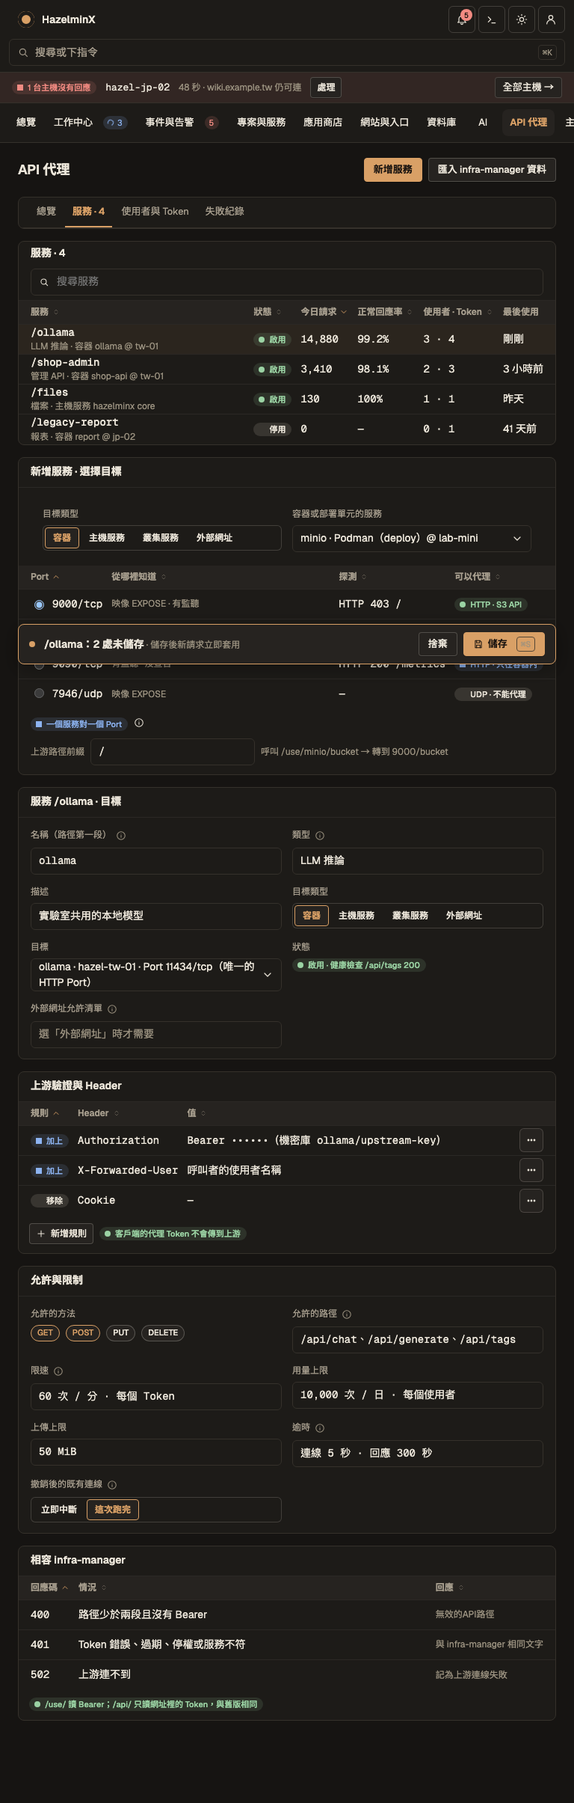
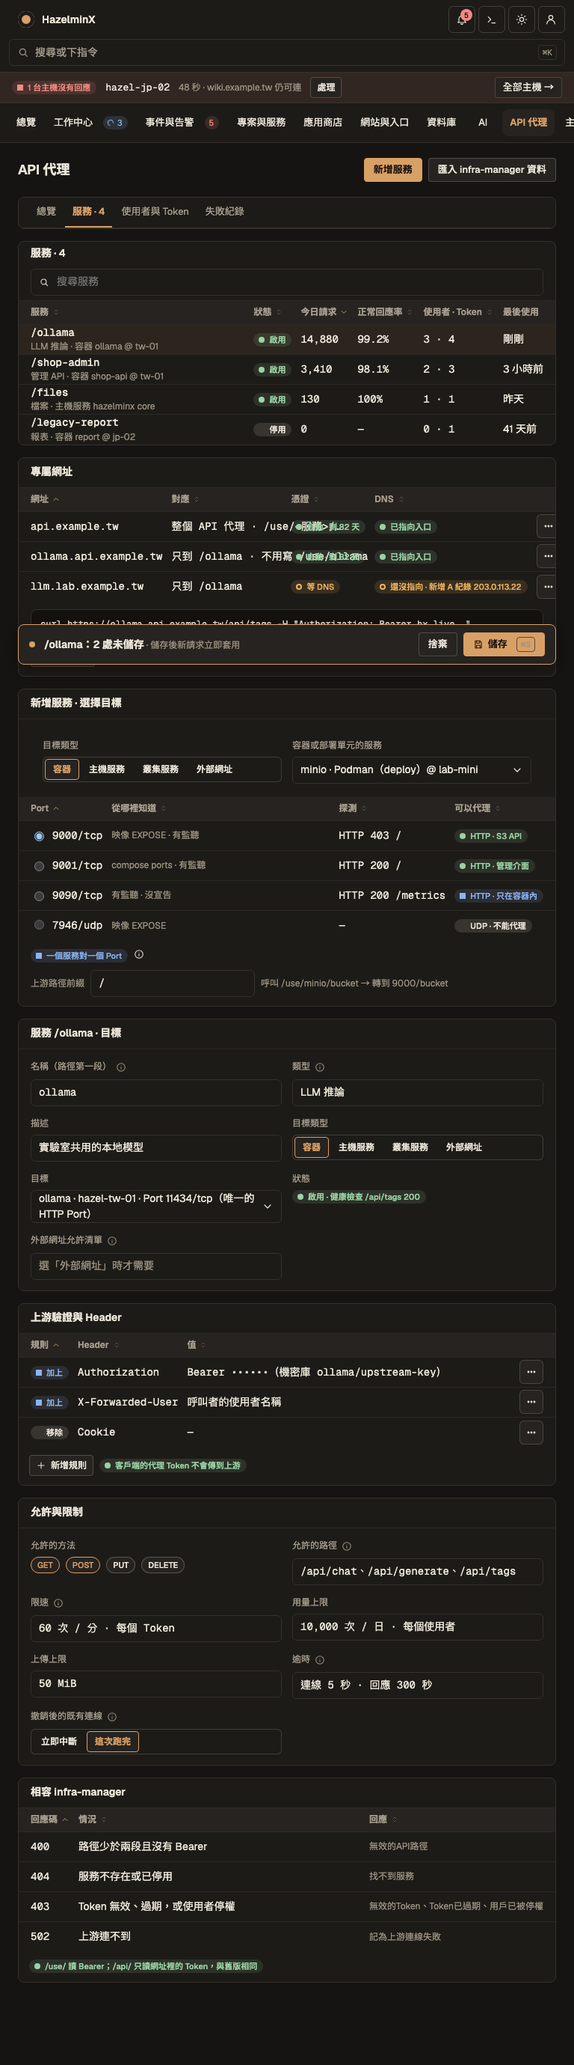
design: API proxy dedicated domains; status codes match infra-manager (400/403/404)

diff --git a/docs/design/screens/APIProxyService.dc.html b/docs/design/screens/APIProxyService.dc.html
@@ -488,7 +488,15 @@ body{margin:0}
       <a class="row  cols-6" href="#svc"><span class="name"><span class="n mono">/shop-admin</span><span class="d">管理 API · 容器 shop-api @ tw-01</span></span><span><span class="st ok"><i aria-hidden="true"></i>啟用</span></span><span class="c3 mono">3,410</span><span class="c3 mono">98.1%</span><span class="c4 mono">2 · 3</span><span class="c4">3 小時前</span></a>
       <a class="row  cols-6" href="#svc"><span class="name"><span class="n mono">/files</span><span class="d">檔案 · 主機服務 hazelminx core</span></span><span><span class="st ok"><i aria-hidden="true"></i>啟用</span></span><span class="c3 mono">130</span><span class="c3 mono">100%</span><span class="c4 mono">1 · 1</span><span class="c4">昨天</span></a>
       <a class="row  cols-6" href="#svc"><span class="name"><span class="n mono">/legacy-report</span><span class="d">報表 · 容器 report @ jp-02</span></span><span><span class="st none"><i aria-hidden="true"></i>停用</span></span><span class="c3 mono">0</span><span class="c3 mono">—</span><span class="c4 mono">0 · 1</span><span class="c4">41 天前</span></a></div>
-    </section><section class="panel"><div class="ph"><h2>新增服務 · 選擇目標</h2></div>
+    </section><section class="panel"><div class="ph"><h2>專屬網址</h2></div>
+      <div class="tw" style="--tc:auto minmax(min(160px,34%),1fr) auto auto auto"><div class="row hd r0"><span class=""><span class="sortable on">網址 <svg viewBox="0 0 24 24" width="12" height="12" fill="none" stroke="currentColor" stroke-width="1.8" stroke-linecap="round" stroke-linejoin="round" aria-hidden="true"><path d="m6 15 6-6 6 6"/></svg></span></span><span class=""><span class="sortable">對應 <svg viewBox="0 0 24 24" width="12" height="12" fill="none" stroke="currentColor" stroke-width="1.8" stroke-linecap="round" stroke-linejoin="round" aria-hidden="true"><path d="m8 10 4-4 4 4"/><path d="m8 14 4 4 4-4"/></svg></span></span><span class=""><span class="sortable">憑證 <svg viewBox="0 0 24 24" width="12" height="12" fill="none" stroke="currentColor" stroke-width="1.8" stroke-linecap="round" stroke-linejoin="round" aria-hidden="true"><path d="m8 10 4-4 4 4"/><path d="m8 14 4 4 4-4"/></svg></span></span><span class=""><span class="sortable">DNS <svg viewBox="0 0 24 24" width="12" height="12" fill="none" stroke="currentColor" stroke-width="1.8" stroke-linecap="round" stroke-linejoin="round" aria-hidden="true"><path d="m8 10 4-4 4 4"/><path d="m8 14 4 4 4-4"/></svg></span></span><span class=""></span></div>
+      <div class="row r0"><span class="mono">api.example.tw</span><span class="mono">整個 API 代理 · /use/&lt;服務&gt;/…</span><span><span class="st ok"><i aria-hidden="true"></i>自動 · 剩 82 天</span></span><span><span class="st ok"><i aria-hidden="true"></i>已指向入口</span></span><span><span class="acts"><button type="button" class="ib" aria-label="更多" title="更多"><svg viewBox="0 0 24 24" width="16" height="16" fill="none" stroke="currentColor" stroke-width="1.8" stroke-linecap="round" stroke-linejoin="round" aria-hidden="true"><circle cx="6" cy="12" r="1.2"/><circle cx="12" cy="12" r="1.2"/><circle cx="18" cy="12" r="1.2"/></svg></button></span></span></div>
+      <div class="row r0"><span class="mono">ollama.api.example.tw</span><span class="mono">只到 /ollama · 不用寫 /use/ollama</span><span><span class="st ok"><i aria-hidden="true"></i>自動 · 剩 82 天</span></span><span><span class="st ok"><i aria-hidden="true"></i>已指向入口</span></span><span><span class="acts"><button type="button" class="ib" aria-label="更多" title="更多"><svg viewBox="0 0 24 24" width="16" height="16" fill="none" stroke="currentColor" stroke-width="1.8" stroke-linecap="round" stroke-linejoin="round" aria-hidden="true"><circle cx="6" cy="12" r="1.2"/><circle cx="12" cy="12" r="1.2"/><circle cx="18" cy="12" r="1.2"/></svg></button></span></span></div>
+      <div class="row r0"><span class="mono">llm.lab.example.tw</span><span class="mono">只到 /ollama</span><span><span class="st warn"><i aria-hidden="true"></i>等 DNS</span></span><span><span class="st warn"><i aria-hidden="true"></i>還沒指向 · 新增 A 紀錄 203.0.113.22</span></span><span><span class="acts"><button type="button" class="ib" aria-label="更多" title="更多"><svg viewBox="0 0 24 24" width="16" height="16" fill="none" stroke="currentColor" stroke-width="1.8" stroke-linecap="round" stroke-linejoin="round" aria-hidden="true"><circle cx="6" cy="12" r="1.2"/><circle cx="12" cy="12" r="1.2"/><circle cx="18" cy="12" r="1.2"/></svg></button></span></span></div></div>
+      <div style="padding:10px 16px 12px;display:flex;flex-direction:column;gap:8px">
+        <div class="term">curl https://ollama.api.example.tw/api/tags -H "Authorization: Bearer hx_live_…"</div>
+        <div class="wrap"><button type="button" class="btn sm"><svg viewBox="0 0 24 24" width="14" height="14" fill="none" stroke="currentColor" stroke-width="1.8" stroke-linecap="round" stroke-linejoin="round" aria-hidden="true"><path d="M12 5v14M5 12h14"/></svg>新增網址</button><span class="st info"><i aria-hidden="true"></i>服務專屬網址只收 Bearer</span><span tabindex="0" data-tip="網址裡沒有 /use/服務 這一段，所以不支援把 Token 放在路徑；/use/ 與 /api/ 的舊路徑照常可用"><svg viewBox="0 0 24 24" width="14" height="14" fill="none" stroke="currentColor" stroke-width="1.8" stroke-linecap="round" stroke-linejoin="round" aria-hidden="true"><circle cx="12" cy="12" r="9"/><path d="M12 11v5M12 8h.01"/></svg></span></div>
+      </div></section><section class="panel"><div class="ph"><h2>新增服務 · 選擇目標</h2></div>
       <div style="padding:12px 16px 4px"><div style="padding:14px 16px;display:grid;grid-template-columns:repeat(auto-fit,minmax(min(280px,100%),1fr));gap:14px"><div class="field"><label>目標類型</label><div class="range" role="group" aria-label="目標類型" style="flex-wrap:wrap"><button type="button" class="btn on" aria-pressed="true">容器</button><button type="button" class="btn" aria-pressed="false">主機服務</button><button type="button" class="btn" aria-pressed="false">叢集服務</button><button type="button" class="btn" aria-pressed="false">外部網址</button></div></div><div class="field"><label>容器或部署單元的服務</label><div class="inp"><span style="flex:1;min-width:0;overflow-wrap:anywhere">minio · Podman（deploy）@ lab-mini</span><svg viewBox="0 0 24 24" width="16" height="16" fill="none" stroke="currentColor" stroke-width="1.8" stroke-linecap="round" stroke-linejoin="round" aria-hidden="true"><path d="m6 9 6 6 6-6"/></svg></div></div></div></div>
       <div class="tw" style="--tc:auto minmax(min(160px,34%),1fr) auto auto"><div class="row hd r0"><span class=""><span class="sortable on">Port <svg viewBox="0 0 24 24" width="12" height="12" fill="none" stroke="currentColor" stroke-width="1.8" stroke-linecap="round" stroke-linejoin="round" aria-hidden="true"><path d="m6 15 6-6 6 6"/></svg></span></span><span class=""><span class="sortable">從哪裡知道 <svg viewBox="0 0 24 24" width="12" height="12" fill="none" stroke="currentColor" stroke-width="1.8" stroke-linecap="round" stroke-linejoin="round" aria-hidden="true"><path d="m8 10 4-4 4 4"/><path d="m8 14 4 4 4-4"/></svg></span></span><span class=""><span class="sortable">探測 <svg viewBox="0 0 24 24" width="12" height="12" fill="none" stroke="currentColor" stroke-width="1.8" stroke-linecap="round" stroke-linejoin="round" aria-hidden="true"><path d="m8 10 4-4 4 4"/><path d="m8 14 4 4 4-4"/></svg></span></span><span class=""><span class="sortable">可以代理 <svg viewBox="0 0 24 24" width="12" height="12" fill="none" stroke="currentColor" stroke-width="1.8" stroke-linecap="round" stroke-linejoin="round" aria-hidden="true"><path d="m8 10 4-4 4 4"/><path d="m8 14 4 4 4-4"/></svg></span></span></div>
       <div class="row r0"><span class="wrap" style="flex-wrap:nowrap"><input type="radio" name="pp" checked aria-label="9000/tcp"><span class="mono">9000/tcp</span></span><span class="note">映像 EXPOSE · 有監聽</span><span class="mono">HTTP 403 /</span><span><span class="st ok"><i aria-hidden="true"></i>HTTP · S3 API</span></span></div>
@@ -506,7 +514,8 @@ body{margin:0}
       <div class="wrap" style="padding:10px 14px 12px"><button type="button" class="btn sm"><svg viewBox="0 0 24 24" width="14" height="14" fill="none" stroke="currentColor" stroke-width="1.8" stroke-linecap="round" stroke-linejoin="round" aria-hidden="true"><path d="M12 5v14M5 12h14"/></svg>新增規則</button><span class="st ok"><i aria-hidden="true"></i>客戶端的代理 Token 不會傳到上游</span></div></section></div><div class="cg"><section class="panel"><div class="ph"><h2>允許與限制</h2></div><div style="padding:14px 16px;display:grid;grid-template-columns:repeat(auto-fit,minmax(min(240px,100%),1fr));gap:14px"><div class="field"><label>允許的方法</label><div class="wrap"><span class="chip on">GET</span><span class="chip on">POST</span><span class="chip">PUT</span><span class="chip">DELETE</span></div></div><div class="field"><label>允許的路徑 <span class="hint" tabindex="0" role="img" aria-label="其他路徑回 403，記在失敗紀錄" data-tip="其他路徑回 403，記在失敗紀錄"><svg viewBox="0 0 24 24" width="14" height="14" fill="none" stroke="currentColor" stroke-width="1.8" stroke-linecap="round" stroke-linejoin="round" aria-hidden="true"><circle cx="12" cy="12" r="9"/><path d="M12 11v5M12 8h.01"/></svg></span></label><div class="inp"><span class="mono" style="flex:1;min-width:0;overflow-wrap:anywhere">/api/chat、/api/generate、/api/tags</span></div></div><div class="field"><label>限速 <span class="hint" tabindex="0" role="img" aria-label="多台主機時是全域計算" data-tip="多台主機時是全域計算"><svg viewBox="0 0 24 24" width="14" height="14" fill="none" stroke="currentColor" stroke-width="1.8" stroke-linecap="round" stroke-linejoin="round" aria-hidden="true"><circle cx="12" cy="12" r="9"/><path d="M12 11v5M12 8h.01"/></svg></span></label><div class="inp"><span class="mono" style="flex:1;min-width:0;overflow-wrap:anywhere">60 次 / 分 · 每個 Token</span></div></div><div class="field"><label>用量上限</label><div class="inp"><span class="mono" style="flex:1;min-width:0;overflow-wrap:anywhere">10,000 次 / 日 · 每個使用者</span></div></div><div class="field"><label>上傳上限</label><div class="inp"><span class="mono" style="flex:1;min-width:0;overflow-wrap:anywhere">50 MiB</span></div></div><div class="field"><label>逾時 <span class="hint" tabindex="0" role="img" aria-label="串流回應不受回應逾時限制" data-tip="串流回應不受回應逾時限制"><svg viewBox="0 0 24 24" width="14" height="14" fill="none" stroke="currentColor" stroke-width="1.8" stroke-linecap="round" stroke-linejoin="round" aria-hidden="true"><circle cx="12" cy="12" r="9"/><path d="M12 11v5M12 8h.01"/></svg></span></label><div class="inp"><span class="mono" style="flex:1;min-width:0;overflow-wrap:anywhere">連線 5 秒 · 回應 300 秒</span></div></div><div class="field"><label>撤銷後的既有連線 <span class="hint" tabindex="0" role="img" aria-label="新請求一律立即拒絕" data-tip="新請求一律立即拒絕"><svg viewBox="0 0 24 24" width="14" height="14" fill="none" stroke="currentColor" stroke-width="1.8" stroke-linecap="round" stroke-linejoin="round" aria-hidden="true"><circle cx="12" cy="12" r="9"/><path d="M12 11v5M12 8h.01"/></svg></span></label><div class="range" role="group" aria-label="撤銷後" style="flex-wrap:wrap"><button type="button" class="btn" aria-pressed="false">立即中斷</button><button type="button" class="btn on" aria-pressed="true">這次跑完</button></div></div></div></section><section class="panel"><div class="ph"><h2>相容 infra-manager</h2></div>
       <div class="tw" style="--tc:auto minmax(min(160px,34%),1fr) auto"><div class="row hd r0"><span class=""><span class="sortable on">回應碼 <svg viewBox="0 0 24 24" width="12" height="12" fill="none" stroke="currentColor" stroke-width="1.8" stroke-linecap="round" stroke-linejoin="round" aria-hidden="true"><path d="m6 15 6-6 6 6"/></svg></span></span><span class=""><span class="sortable">情況 <svg viewBox="0 0 24 24" width="12" height="12" fill="none" stroke="currentColor" stroke-width="1.8" stroke-linecap="round" stroke-linejoin="round" aria-hidden="true"><path d="m8 10 4-4 4 4"/><path d="m8 14 4 4 4-4"/></svg></span></span><span class=""><span class="sortable">回應 <svg viewBox="0 0 24 24" width="12" height="12" fill="none" stroke="currentColor" stroke-width="1.8" stroke-linecap="round" stroke-linejoin="round" aria-hidden="true"><path d="m8 10 4-4 4 4"/><path d="m8 14 4 4 4-4"/></svg></span></span></div>
       <div class="row r0"><span class="mono">400</span><span>路徑少於兩段且沒有 Bearer</span><span class="note">無效的API路徑</span></div>
-      <div class="row r0"><span class="mono">401</span><span>Token 錯誤、過期、停權或服務不符</span><span class="note">與 infra-manager 相同文字</span></div>
+      <div class="row r0"><span class="mono">404</span><span>服務不存在或已停用</span><span class="note">找不到服務</span></div>
+      <div class="row r0"><span class="mono">403</span><span>Token 無效、過期，或使用者停權</span><span class="note">無效的Token、Token已過期、用戶已被停權</span></div>
       <div class="row r0"><span class="mono">502</span><span>上游連不到</span><span class="note">記為上游連線失敗</span></div></div>
       <div class="wrap" style="padding:10px 14px 12px"><span class="st ok"><i aria-hidden="true"></i>/use/ 讀 Bearer；/api/ 只讀網址裡的 Token，與舊版相同</span></div></section></div><div class="savebar" role="region" aria-label="未儲存的變更"><span class="dot" aria-hidden="true"></span><span><strong>/ollama：2 處未儲存</strong><span class="note"> · 儲存後新請求立即套用</span></span><span class="wrap sbtns"><button type="button" class="btn">捨棄</button><button type="button" class="btn pri" aria-keyshortcuts="Meta+S"><svg viewBox="0 0 24 24" width="14" height="14" fill="none" stroke="currentColor" stroke-width="1.8" stroke-linecap="round" stroke-linejoin="round" aria-hidden="true"><path d="M5 4h11l3 3v13H5z"/><path d="M8 4v5h7V4M8 20v-6h8v6"/></svg>儲存<span class="kbd">⌘S</span></button></span></div></main></div></div>
 </x-dc>

diff --git a/docs/design/screens/APIProxyFailures.dc.html b/docs/design/screens/APIProxyFailures.dc.html
@@ -490,8 +490,8 @@ body{margin:0}
       <div class="wrap" style="padding:10px 14px;border-bottom:1px solid var(--line)"><span style="flex:0 1 180px;min-width:150px"><div class="inp"><span style="flex:1;min-width:0;overflow-wrap:anywhere">類型：全部</span><svg viewBox="0 0 24 24" width="16" height="16" fill="none" stroke="currentColor" stroke-width="1.8" stroke-linecap="round" stroke-linejoin="round" aria-hidden="true"><path d="m6 9 6 6 6-6"/></svg></div></span><span style="flex:0 1 180px;min-width:150px"><div class="inp"><span style="flex:1;min-width:0;overflow-wrap:anywhere">服務：全部</span><svg viewBox="0 0 24 24" width="16" height="16" fill="none" stroke="currentColor" stroke-width="1.8" stroke-linecap="round" stroke-linejoin="round" aria-hidden="true"><path d="m6 9 6 6 6-6"/></svg></div></span><span style="flex:0 1 150px;min-width:130px"><div class="inp"><span style="flex:1;min-width:0;overflow-wrap:anywhere">回應碼：全部</span><svg viewBox="0 0 24 24" width="16" height="16" fill="none" stroke="currentColor" stroke-width="1.8" stroke-linecap="round" stroke-linejoin="round" aria-hidden="true"><path d="m6 9 6 6 6-6"/></svg></div></span><span style="flex:0 1 220px;min-width:180px"><div class="inp"><span style="flex:1;min-width:0;overflow-wrap:anywhere">11/08 00:00 – 現在</span><svg viewBox="0 0 24 24" width="16" height="16" fill="none" stroke="currentColor" stroke-width="1.8" stroke-linecap="round" stroke-linejoin="round" aria-hidden="true"><path d="m6 9 6 6 6-6"/></svg></div></span><button type="button" class="btn">查詢</button></div>
       <div class="tw" style="--tc:minmax(min(160px,34%),1fr) auto var(--k3,auto) var(--k3,auto) var(--k4,auto) var(--k4,auto)"><div class="row hd cols-6"><span class=""><span class="sortable on">時間 · 呼叫者 <svg viewBox="0 0 24 24" width="12" height="12" fill="none" stroke="currentColor" stroke-width="1.8" stroke-linecap="round" stroke-linejoin="round" aria-hidden="true"><path d="m6 15 6-6 6 6"/></svg></span></span><span class=""><span class="sortable">類型 <svg viewBox="0 0 24 24" width="12" height="12" fill="none" stroke="currentColor" stroke-width="1.8" stroke-linecap="round" stroke-linejoin="round" aria-hidden="true"><path d="m8 10 4-4 4 4"/><path d="m8 14 4 4 4-4"/></svg></span></span><span class="c3"><span class="sortable">原因 <svg viewBox="0 0 24 24" width="12" height="12" fill="none" stroke="currentColor" stroke-width="1.8" stroke-linecap="round" stroke-linejoin="round" aria-hidden="true"><path d="m8 10 4-4 4 4"/><path d="m8 14 4 4 4-4"/></svg></span></span><span class="c3"><span class="sortable">服務 <svg viewBox="0 0 24 24" width="12" height="12" fill="none" stroke="currentColor" stroke-width="1.8" stroke-linecap="round" stroke-linejoin="round" aria-hidden="true"><path d="m8 10 4-4 4 4"/><path d="m8 14 4 4 4-4"/></svg></span></span><span class="c4"><span class="sortable">回應碼 <svg viewBox="0 0 24 24" width="12" height="12" fill="none" stroke="currentColor" stroke-width="1.8" stroke-linecap="round" stroke-linejoin="round" aria-hidden="true"><path d="m8 10 4-4 4 4"/><path d="m8 14 4 4 4-4"/></svg></span></span><span class="c4">上游回應碼</span></div>
       <div class="row  cols-6"><span class="name"><span class="n mono">03:41:12</span><span class="d">lab-bot · Token #12</span></span><span><span class="st warn"><i aria-hidden="true"></i>驗證失敗</span></span><span class="c3">超過限速（60 次/分）</span><span class="c3 mono">/ollama</span><span class="c4 mono">429</span><span class="c4 mono">—</span></div>
-      <div class="row  cols-6"><span class="name"><span class="n mono">03:40:55</span><span class="d">old-intern · Token #3</span></span><span><span class="st warn"><i aria-hidden="true"></i>驗證失敗</span></span><span class="c3">Token 已過期</span><span class="c3 mono">/legacy-report</span><span class="c4 mono">401</span><span class="c4 mono">—</span></div>
-      <div class="row  cols-6"><span class="name"><span class="n mono">03:39:31</span><span class="d">—</span></span><span><span class="st warn"><i aria-hidden="true"></i>驗證失敗</span></span><span class="c3">Token 無效或已停用</span><span class="c3 mono">/ollama</span><span class="c4 mono">401</span><span class="c4 mono">—</span></div>
+      <div class="row  cols-6"><span class="name"><span class="n mono">03:40:55</span><span class="d">old-intern · Token #3</span></span><span><span class="st warn"><i aria-hidden="true"></i>驗證失敗</span></span><span class="c3">Token 已過期</span><span class="c3 mono">/legacy-report</span><span class="c4 mono">403</span><span class="c4 mono">—</span></div>
+      <div class="row  cols-6"><span class="name"><span class="n mono">03:39:31</span><span class="d">—</span></span><span><span class="st warn"><i aria-hidden="true"></i>驗證失敗</span></span><span class="c3">Token 無效或已停用</span><span class="c3 mono">/ollama</span><span class="c4 mono">403</span><span class="c4 mono">—</span></div>
       <div class="row  cols-6"><span class="name"><span class="n mono">03:38:20</span><span class="d">ci-runner · Token #9</span></span><span><span class="st warn"><i aria-hidden="true"></i>驗證失敗</span></span><span class="c3">方法不允許（DELETE）</span><span class="c3 mono">/shop-admin</span><span class="c4 mono">403</span><span class="c4 mono">—</span></div>
       <div class="row  cols-6"><span class="name"><span class="n mono">03:21:07</span><span class="d">tim · Token #5</span></span><span><span class="st dng"><i aria-hidden="true"></i>上游連線失敗</span></span><span class="c3">連線逾時</span><span class="c3 mono">/legacy-report</span><span class="c4 mono">502</span><span class="c4 mono">—</span></div>
       <div class="row  cols-6"><span class="name"><span class="n mono">03:05:44</span><span class="d">ci-runner · Token #9</span></span><span><span class="st dng"><i aria-hidden="true"></i>上游連線失敗</span></span><span class="c3">上游 TLS 驗證失敗</span><span class="c3 mono">/shop-admin</span><span class="c4 mono">502</span><span class="c4 mono">—</span></div>

diff --git a/docs/design/tools/build_screens.py b/docs/design/tools/build_screens.py
@@ -1380,7 +1380,8 @@ def apiproxy_service() -> str:
     compat = _fp("相容 infra-manager", f"""
       <div class="row hd"><span>回應碼</span><span>情況</span><span>回應</span></div>
       {tr("400", "路徑少於兩段且沒有 Bearer", "無效的API路徑")}
-      {tr("401", "Token 錯誤、過期、停權或服務不符", "與 infra-manager 相同文字")}
+      {tr("404", "服務不存在或已停用", "找不到服務")}
+      {tr("403", "Token 無效、過期，或使用者停權", "無效的Token、Token已過期、用戶已被停權")}
       {tr("502", "上游連不到", "記為上游連線失敗")}
       <div class="wrap" style="padding:10px 14px 12px">{U.status("ok", "/use/ 讀 Bearer；/api/ 只讀網址裡的 Token，與舊版相同")}</div>""")
     def sv(name, typ, tgt, st, req, ok, users, toks, last, on=False):
@@ -1411,7 +1412,18 @@ def apiproxy_service() -> str:
         <div class="wrap">{U.status("info", "一個服務對一個 Port")}<span tabindex="0" data-tip="要同時開放 S3 API 和管理介面，就建兩個服務，例如 /minio 與 /minio-console">{U.icon("info", 14)}</span></div>
         <div class="wrap"><span class="note">上游路徑前綴</span><span style="flex:0 1 220px">{_in("/", mono=True)}</span><span class="note">呼叫 /use/minio/bucket → 轉到 9000/bucket</span></div>
       </div>""")
-    main = head + _api_tabs(1) + lst + picker + f'<div class="cg">{target}{upstream}</div>' + f'<div class="cg">{limits}{compat}</div>' + U.savebar("/ollama：2 處未儲存", "儲存後新請求立即套用", "儲存")
+    def dom(host, maps, cert, st):
+        return f'<div class="row"><span class="mono">{host}</span><span class="mono">{maps}</span><span>{cert}</span><span>{st}</span><span>{U.actions(["more"])}</span></div>'
+    domains = _fp("專屬網址", f"""
+      <div class="row hd"><span>網址</span><span>對應</span><span>憑證</span><span>DNS</span><span></span></div>
+      {dom("api.example.tw", "整個 API 代理 · /use/&lt;服務&gt;/…", U.status("ok", "自動 · 剩 82 天"), U.status("ok", "已指向入口"))}
+      {dom("ollama.api.example.tw", "只到 /ollama · 不用寫 /use/ollama", U.status("ok", "自動 · 剩 82 天"), U.status("ok", "已指向入口"))}
+      {dom("llm.lab.example.tw", "只到 /ollama", U.status("warn", "等 DNS"), U.status("warn", "還沒指向 · 新增 A 紀錄 203.0.113.22"))}
+      <div style="padding:10px 16px 12px;display:flex;flex-direction:column;gap:8px">
+        <div class="term">curl https://ollama.api.example.tw/api/tags -H "Authorization: Bearer hx_live_…"</div>
+        <div class="wrap"><button type="button" class="btn sm">{U.icon("plus", 14)}新增網址</button>{U.status("info", "服務專屬網址只收 Bearer")}<span tabindex="0" data-tip="網址裡沒有 /use/服務 這一段，所以不支援把 Token 放在路徑；/use/ 與 /api/ 的舊路徑照常可用">{U.icon("info", 14)}</span></div>
+      </div>""")
+    main = head + _api_tabs(1) + lst + domains + picker + f'<div class="cg">{target}{upstream}</div>' + f'<div class="cg">{limits}{compat}</div>' + U.savebar("/ollama：2 處未儲存", "儲存後新請求立即套用", "儲存")
     return U.shell("api", main)
 
 
@@ -1482,8 +1494,8 @@ def apiproxy_failures() -> str:
       <div class="wrap" style="padding:10px 14px;border-bottom:1px solid var(--line)"><span style="flex:0 1 180px;min-width:150px">{_dd("類型：全部")}</span><span style="flex:0 1 180px;min-width:150px">{_dd("服務：全部")}</span><span style="flex:0 1 150px;min-width:130px">{_dd("回應碼：全部")}</span><span style="flex:0 1 220px;min-width:180px">{_dd("11/08 00:00 – 現在")}</span><button type="button" class="btn">查詢</button></div>
       <div class="row hd srow"><span>時間 · 呼叫者</span><span>類型</span><span class="c3">原因</span><span class="c3">服務</span><span class="c4">回應碼</span><span class="c4">上游回應碼</span><span></span></div>
       {fr("03:41:12", U.status("warn", "驗證失敗"), "超過限速（60 次/分）", "/ollama", "lab-bot · Token #12", "429", "—")}
-      {fr("03:40:55", U.status("warn", "驗證失敗"), "Token 已過期", "/legacy-report", "old-intern · Token #3", "401", "—")}
-      {fr("03:39:31", U.status("warn", "驗證失敗"), "Token 無效或已停用", "/ollama", "—", "401", "—")}
+      {fr("03:40:55", U.status("warn", "驗證失敗"), "Token 已過期", "/legacy-report", "old-intern · Token #3", "403", "—")}
+      {fr("03:39:31", U.status("warn", "驗證失敗"), "Token 無效或已停用", "/ollama", "—", "403", "—")}
       {fr("03:38:20", U.status("warn", "驗證失敗"), "方法不允許（DELETE）", "/shop-admin", "ci-runner · Token #9", "403", "—")}
       {fr("03:21:07", U.status("dng", "上游連線失敗"), "連線逾時", "/legacy-report", "tim · Token #5", "502", "—")}
       {fr("03:05:44", U.status("dng", "上游連線失敗"), "上游 TLS 驗證失敗", "/shop-admin", "ci-runner · Token #9", "502", "—")}

diff --git a/docs/tickets/062-token-api-proxy.md b/docs/tickets/062-token-api-proxy.md
@@ -26,6 +26,7 @@
 - [ ] 相容測試覆蓋有效、過期、停權、誤判路徑、缺服務與 Bearer 強制指定
 - [ ] 所有 Token 在日誌、WAF、診斷包與分析進庫前遮罩
 - [ ] （API-001 細化，2026-11-08 使用者提問）目標是容器或部署單元的服務時，分兩步選：先選容器或服務，再從它的 Port 清單選一個。Port 清單合併映像 EXPOSE、compose 的 ports／expose，以及容器內實際監聽的 Port，每個標出來源與探測結果（HTTP 回應碼、是否 TLS）；UDP 與探測不是 HTTP 的 Port 照樣列出但不能選，並寫出原因。一個代理服務對一個 Port，要開放同一容器的多個 Port 就建多個服務。目標是有多個副本的服務時，請求分散到健康的副本，不綁定單一容器。容器重建或 IP 改變後，目標依服務身分重新解析，不綁死舊 IP。
+- [ ] （API-001 細化，2026-11-08 使用者新增）API 代理可以設定專屬網址，經 Zentinel 對外並自動申請憑證：整體網址（例如 `api.example.tw`）照 20.1 的 `/use/<服務>/…` 與 `/api/` 路徑運作；服務專屬網址（例如 `ollama.api.example.tw`）直接對應單一服務，不必寫 `/use/<服務>`，只接受 Bearer，不支援把 Token 放在路徑。一個服務可以有多個網址；DNS 沒指向入口時寫出要加的紀錄。回應碼與 20.1 相同（路徑錯誤 400、服務不存在 404、Token 無效／過期／使用者停權 403）。
 
 ## Acceptance tests（第 42 章）
 
